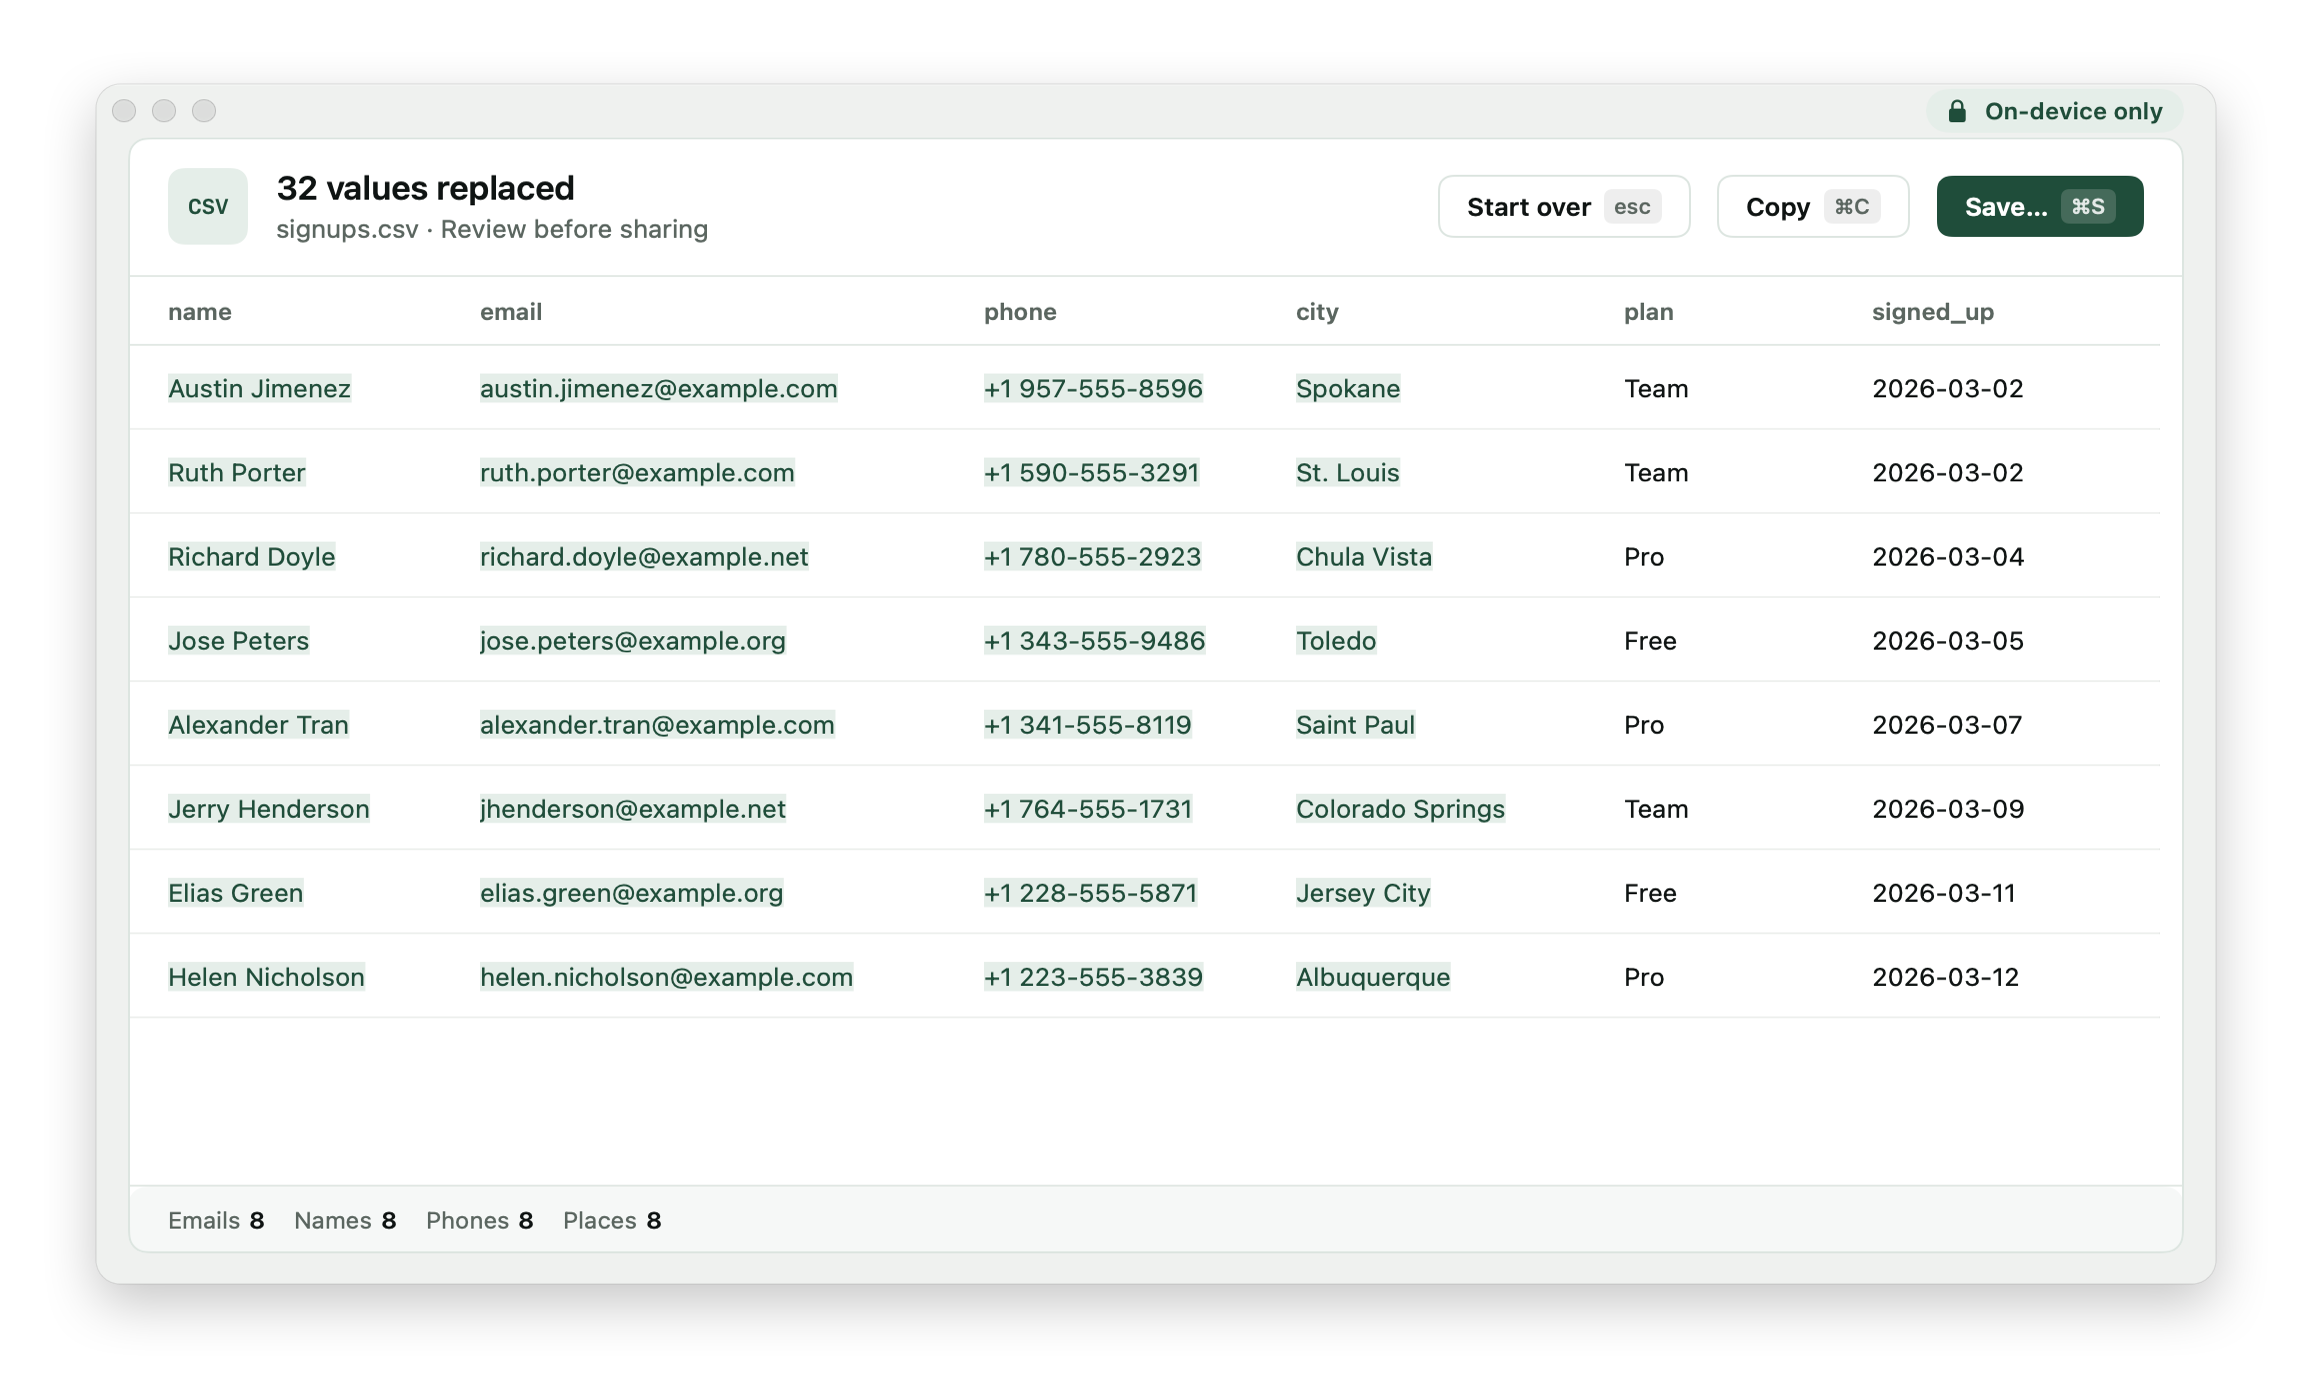
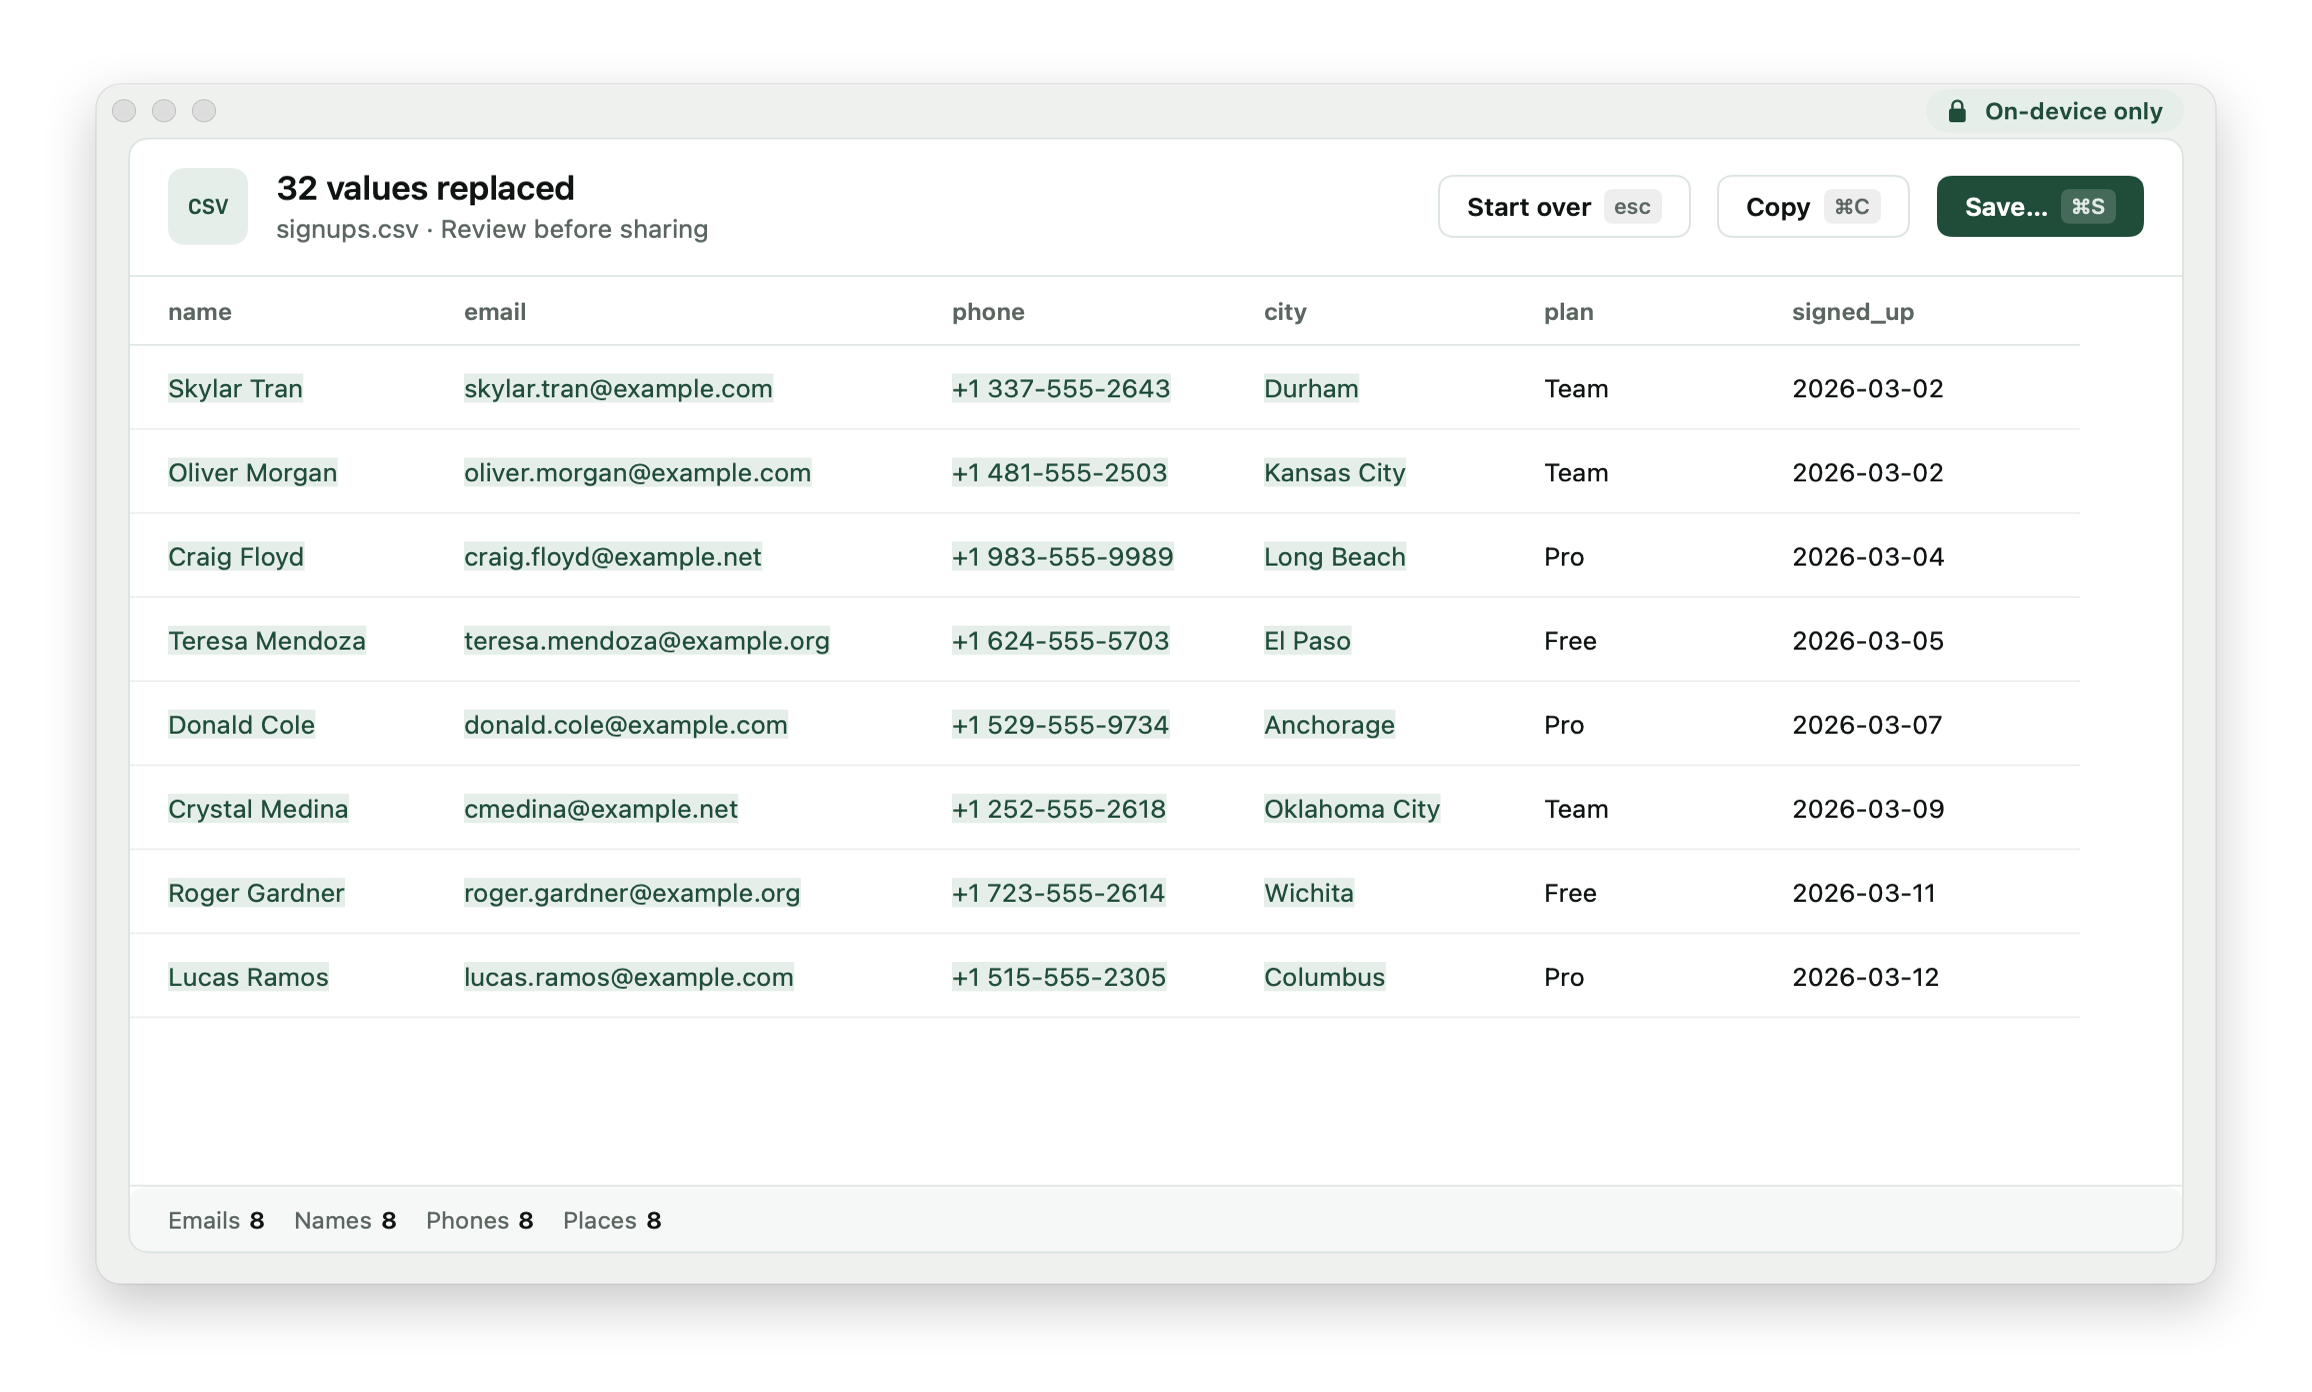
README claims match behavior, limits section, fresh screenshots; version 0.2.1

diff --git a/README.md b/README.md
@@ -43,7 +43,7 @@ Scrub never checks for updates, since it has no network access. Download a newer
 
 You want to paste a support ticket, a customer export or a log into an AI tool, but it's full of names, emails, phone numbers, cards and keys. Deleting them breaks the file; redacting them to `[REDACTED]` loses the shape the tool needs to be useful.
 
-Scrub swaps each one for a believable stand-in instead. The same person gets the same stand-in everywhere in the file, emails still match their owner's name, and the structure stays exactly as it was.
+Scrub swaps each one for a believable stand-in instead. The same person gets the same stand-in everywhere in the file, emails still match their owner's name, and the file keeps its structure.
 
 ## See it work
 
@@ -75,7 +75,7 @@ Maria Gonzalez
 
 ### JSON
 
-Keys, nesting and non-personal values are kept. Secrets become random strings of the same shape, keeping a known vendor prefix; card numbers keep their issuer and still pass the checksum.
+Nesting and non-personal values are kept; a key is only renamed when it holds personal data itself. Secrets become 24 random characters, keeping a known vendor prefix like `sk_live_`, so their length gives nothing away. Card numbers keep their network, length and grouping, and still pass the checksum. The output is re-indented.
 
 <img src="docs/images/json.png" alt="A customer record after scrubbing: name, contact details, birth date, card and API key replaced">
 
@@ -104,7 +104,7 @@ Keys, nesting and non-personal values are kept. Secrets become random strings of
 
 ### CSV
 
-Spreadsheets get a table preview with every replaced cell marked. Columns that aren't personal, like plan and signup date, are untouched.
+Spreadsheets get a table preview with replaced cells marked. Columns that aren't personal, like plan and signup date, are untouched.
 
 <img src="docs/images/csv.png" alt="A signups spreadsheet after scrubbing: every name, email, phone and city replaced">
 
@@ -114,8 +114,8 @@ The sample files are in [`docs/samples`](docs/samples) if you want to try them y
 
 1. **Finds personal details three ways:** patterns (emails, phone numbers, cards, IBANs, secrets and more), Apple's on-device data detectors, and on-device name recognition.
 2. **Replaces them consistently:** each real person, place or value gets one stand-in across the whole file.
-3. **Re-checks the output** and replaces anything that still matches an original.
-4. **Keeps the structure:** keys, columns, elements and formatting stay as they were.
+3. **Re-checks the output** for originals that slipped through, replaces them, and flags any it can't resolve as *left to review*.
+4. **Keeps the structure:** nesting, columns and elements stay as they were, and values are replaced in place.
 
 Results say *Review before sharing*, never *clean*: detection is statistical, and the counts show what Scrub found and replaced, not proof of what's left.
 
@@ -125,7 +125,14 @@ Results say *Review before sharing*, never *clean*: detection is statistical, an
 - **Nothing is kept.** The map from real values to stand-ins lives in memory for one job only.
 - **Private saves.** Saved files are readable by your user account only.
 - **Clipboard cleanup.** Start over or quit, and Scrub takes back what it copied if it's still on the clipboard.
-- **Safe to open in a spreadsheet.** Cells that look like formulas get a leading `'`.
+- **Formulas defused.** CSV cells that a spreadsheet would run as a formula (starting with `=`, `@`, `+` or `-`, other than plain numbers) get a leading `'`, so they open as text.
+
+## Limits
+
+- Files up to 50 MB of UTF-8 text (XML may also be UTF-16).
+- JSON and XML nested up to 64 levels. XML with a DOCTYPE or entity declarations is refused.
+- The preview shows the first 200,000 characters or 500 table rows. Copy and Save always give the whole result.
+- Detection finds what it recognises. A value only counts as a secret when it looks like one, or sits under a key like `password` or `token`.
 
 ## Keyboard
 
